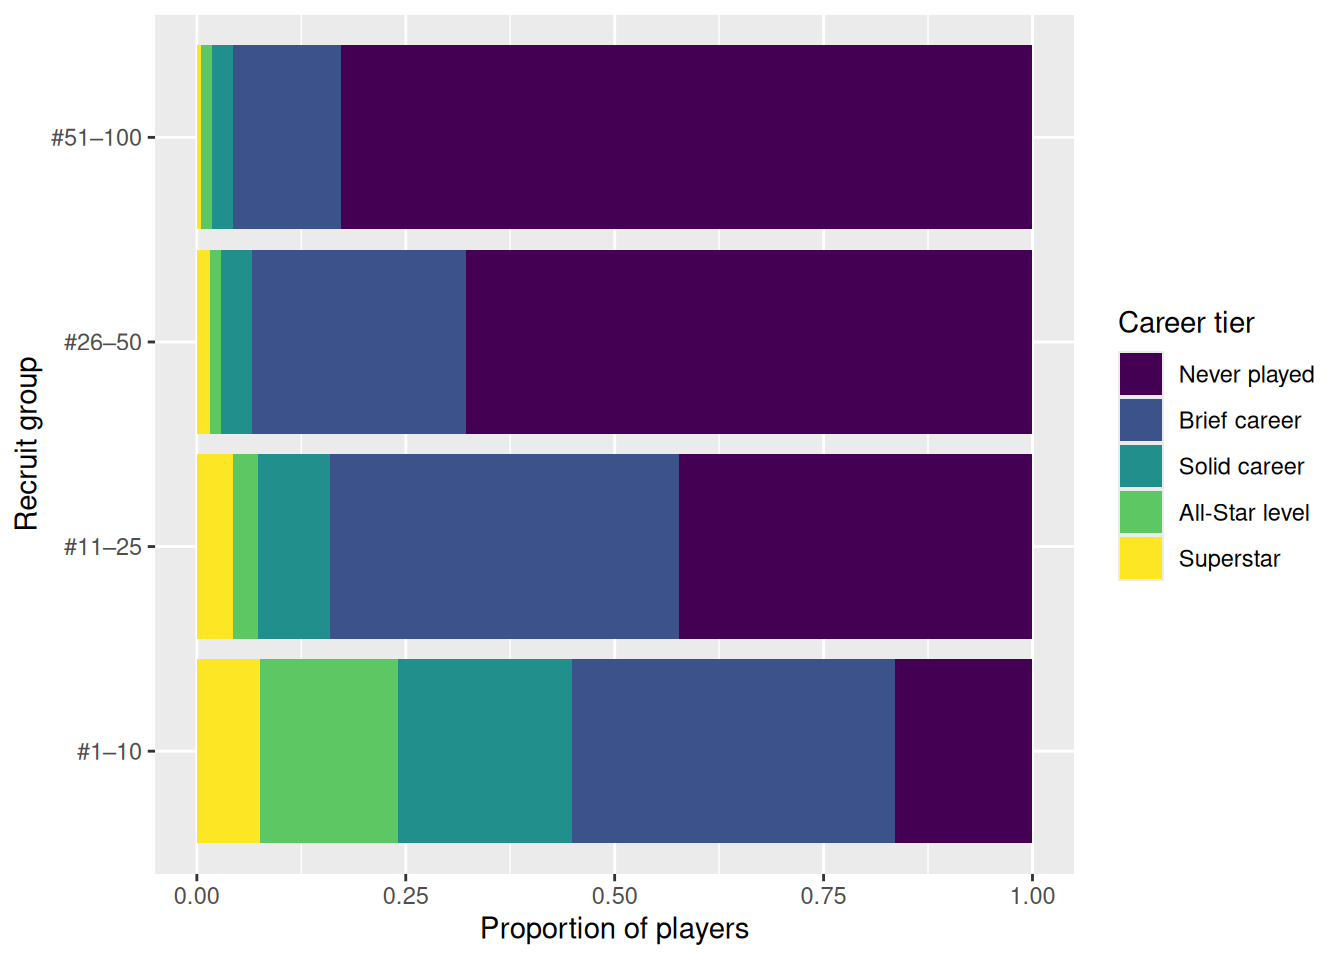
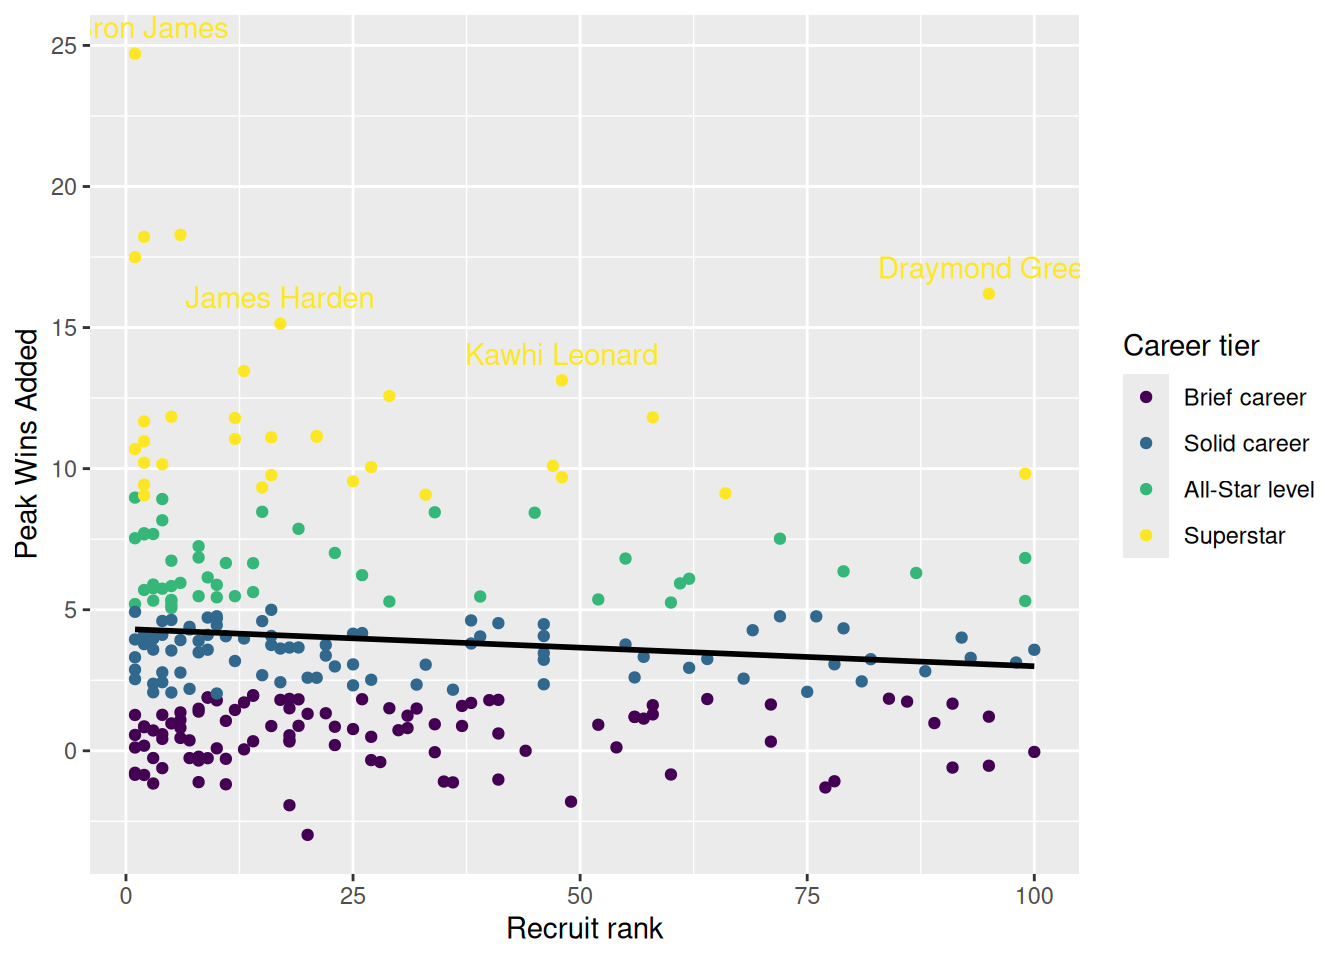
Built site for gh-pages

diff --git a/analysis.html b/analysis.html
@@ -119,6 +119,9 @@ ul.task-list li input[type="checkbox"] {
 </div>
 </div>
 <div class="cell">
+<div class="cell-output cell-output-stderr">
+<pre><code>`geom_smooth()` using formula = 'y ~ x'</code></pre>
+</div>
 <div class="cell-output-display">
 <div>
 <figure class="figure">

diff --git a/index.html b/index.html
@@ -119,6 +119,9 @@ ul.task-list li input[type="checkbox"] {
 </div>
 </div>
 <div class="cell">
+<div class="cell-output cell-output-stderr">
+<pre><code>`geom_smooth()` using formula = 'y ~ x'</code></pre>
+</div>
 <div class="cell-output-display">
 <div>
 <figure class="figure">
